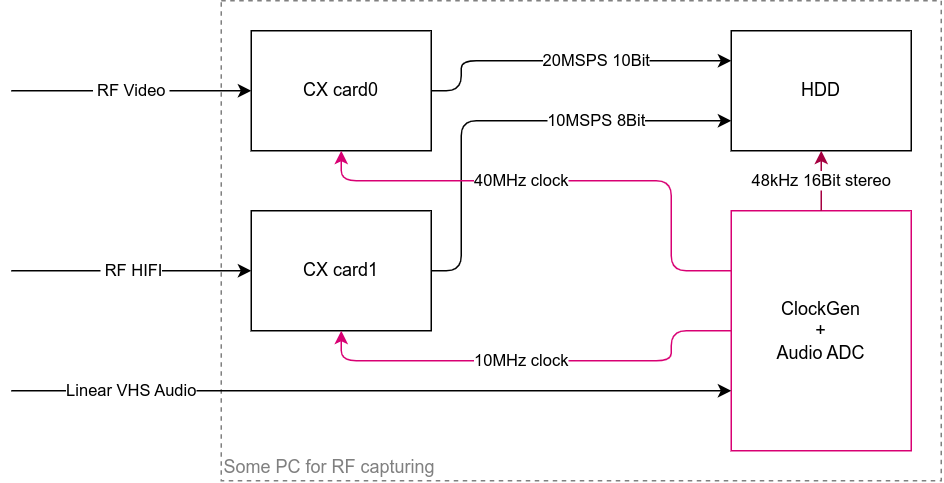
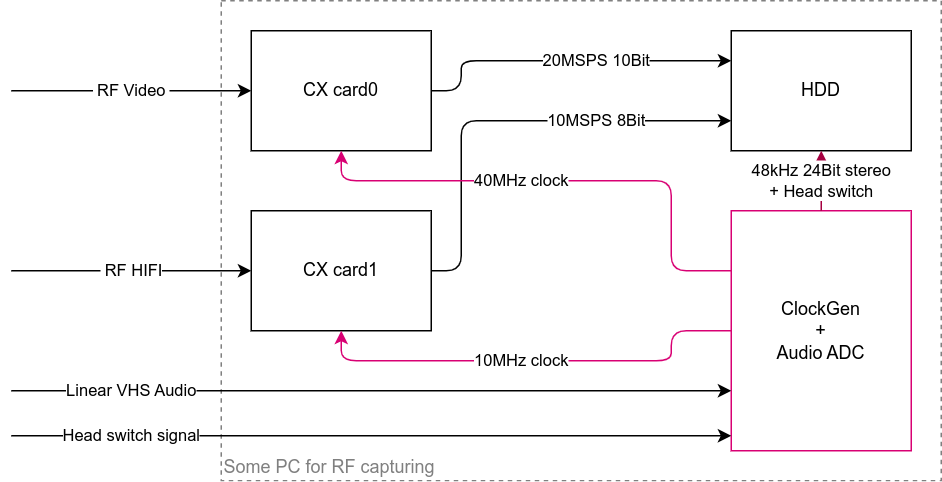
Resolve "some doc improvements"

diff --git a/build-guide/README.md b/build-guide/README.md
@@ -9,6 +9,12 @@ But the two main PCBs of this project need to be ordered with [JLCPCB][jlcpcb] a
 Don't worry though all SMD parts are rather large 0805, and ordering them with [JLCPCB][jlcpcb] is fast and cheap!
 The [hardware](../hardware) section of this project includes the full [KiCad][kicad] project files, so you can also generate gerbers for a different manufacturing house.
 
+If you are new to soldering electronics, learning about it is a bit beyond this guide.
+However you may want to start looking here, as these videos cover the things needed for this guide:
+- Branchus Creations Beginner's Guide to Soldering Electronics [Part 1](https://www.youtube.com/watch?v=M2Jf8cebwCs) and [Part 2](https://www.youtube.com/watch?v=BPuH1Z2npoQ)
+- Electronoobs [SMD Soldering Tutorial | Guide | Tools | Tecniques | Stencil](https://www.youtube.com/watch?v=fYInlAmPnGo)
+
+
 The steps covered here will assemble the electronic components and flash the firmware on the Raspberry Pi Pico.
 Mounting the finished build in your particular PC / setup is beyond the scope of this guide.
 You can however have a look in the [mechanical section](../mechanical) for some 3D printable parts that may suit your needs.
@@ -41,7 +47,7 @@ So put add something like 10% additional parts, but at least one extra component
 
 If you choose a manufacturing house other than [JLCPCB][jlcpcb], you already know what you need.
 The [releases section][releases] of this project holds the finished gerbers for ordering directly from [JLCPCB][jlcpcb].
-When ordering, you should check [these settings (valid as of Sep. 2023)](../hardware/jlc-2023-09-order-example.png).
+When ordering, you should check [these settings (valid as of Sep. 2023)](../hardware/jlc-2023-09-order-example.png) for both boards.
 The minimum quantity (as of Sep. 2023) is 5 per PCBs, so for a single clock gen with two [CXADC][cxadc] cards, you will have some spares.
 
 ## Building PCB 1 - VT610ex clock generator insert

diff --git a/README.md b/README.md
@@ -50,15 +50,19 @@ This extra audio ADC is also synchronously clocked from the same clock generator
 
 As an added bonus, the clock generator is programmable, so the output sample rates for the [CXADC][cxadc] cards can be changed!
 This can be configured during system runtime, via the same USB audio interface that also streams the [PCM1802 ADC][pcm1802-product] samples.
-And as one more (future) feature, it also contains an additional digital input, that can be connected to the head switch signal of your VHS player.
-This signal will be recorded along side the linear audio, (in the future) enabling even more automation to sync up all those streams.
+And as one more feature, it also contains an additional digital input, that can be connected to the head switch signal of your VHS player.
+This signal will be recorded along side the linear audio, enabling even more automation to sync up all those streams.
+
+![3ch-usb-recording.png](3ch-usb-recording.png)
+
+The above shows a 3ch recording as captured from the clock generator, a sine wave on the left, silence on the right, and a head-switch signal on the 3rd channel.
 Read on to get all the details and find out how to build one yourself.
 
 ## Building one yourself
 
 The build and installation guide can be found [over here](build-guide/README.md).
 Have a look in the [mechanical section too](mechanical) for some (optional) 3D printable parts.
-And once you built it, check out the [scripts](scripts) folder which holds some useful tool around using this project.
+And once you built it, check out the [scripts](scripts) folder which holds some useful tools an examples around using this project.
 
 ## System overview and architecture
 

diff --git a/CHANGELOG.md b/CHANGELOG.md
@@ -7,13 +7,20 @@ and this project adheres to [Semantic Versioning](https://semver.org/spec/v2.0.0
 
 ## [Unreleased]
 
+## [1.0.0] - 2023-10-08
+
 ### Added
 
+- Scripts - Add a script to capture all 3 streams in parallel
 - Mechanical - Add a PC bracket in 2 and 3 RCA jacks variant to accomodate PCM1802 ADC inputs and head switch signal
 - Mechanical - Add an optional mountable holder to the 3D printable box
 - Firmware - USB device descriptor now has correct SemVer in bcdDevice version field
 - Firmware - Implement PCM1802 data streaming and head switch GPIO sampling
 - Doc - Add example scope trace for 28.6 MHz clock to build and install guide
+
+### Fixed
+
+- Doc - Overview diagram was missing head-switch signal and wrongly stated 16Bit instead of 24Bit audio
 
 ## [0.2.0] - 2023-10-02
 
@@ -47,7 +54,8 @@ and this project adheres to [Semantic Versioning](https://semver.org/spec/v2.0.0
 - PCB - Clock generator main board - Rev A
 - Initial documentation
 
-[unreleased]: https://gitlab.com/wolfre/cxadc-clock-generator-audio-adc/-/compare/v0.2.0...main
+[unreleased]: https://gitlab.com/wolfre/cxadc-clock-generator-audio-adc/-/compare/v1.0.0...main
+[1.0.0]: https://gitlab.com/wolfre/cxadc-clock-generator-audio-adc/-/compare/v0.2.0...v1.0.0
 [0.2.0]: https://gitlab.com/wolfre/cxadc-clock-generator-audio-adc/-/compare/v0.1.0...v0.2.0
 [0.1.0]: https://gitlab.com/wolfre/cxadc-clock-generator-audio-adc/-/compare/v0.0.1...v0.1.0
 [0.0.1]: https://gitlab.com/wolfre/cxadc-clock-generator-audio-adc/-/tree/v0.0.1
